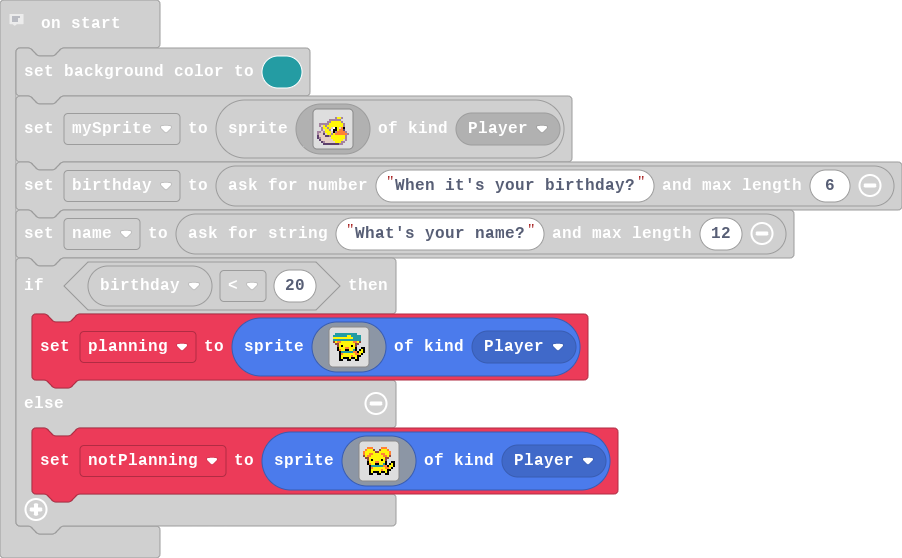
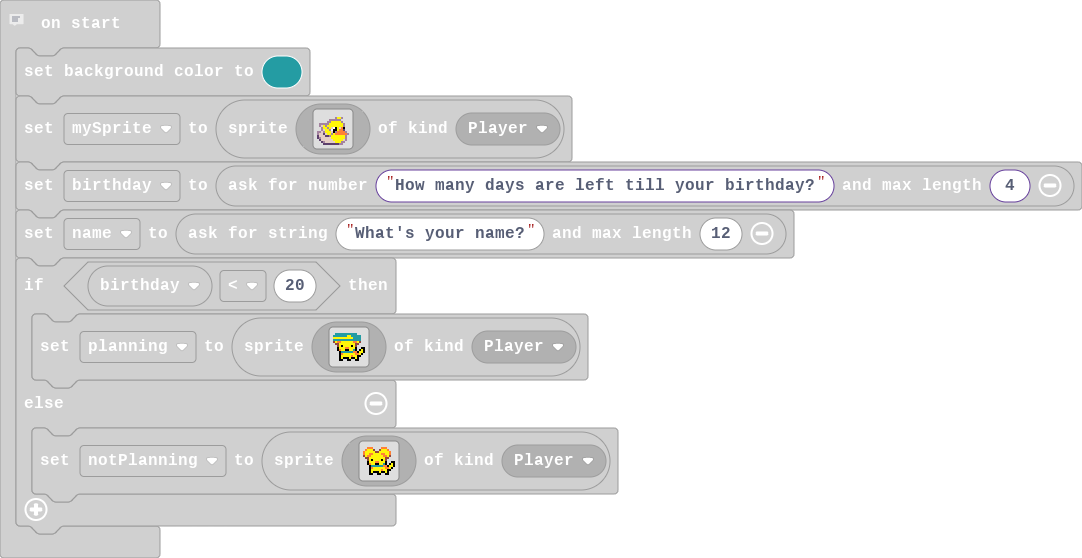
Update main.blocks, main.ts

Changed region(s): [[0.0, 0.0609, 0.9933, 0.9749], [0.031, 0.0, 0.1863, 0.0914], [0.1242, 0.9444, 0.1863, 1.0]]

diff --git a/main.ts b/main.ts
@@ -20,7 +20,7 @@ let mySprite = sprites.create(img`
     . . c b d d d d d 5 5 5 b b . . 
     . . . c c c c c c c c b b . . . 
     `, SpriteKind.Player)
-let birthday = game.askForNumber("When it's your birthday?", 6)
+let birthday = game.askForNumber("How many days are left till your birthday?", 4)
 let name = game.askForString("What's your name?", 12)
 if (birthday < 20) {
     planning = sprites.create(img`
